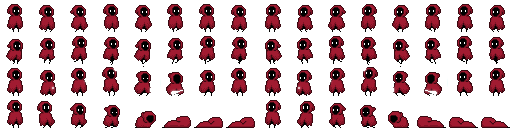
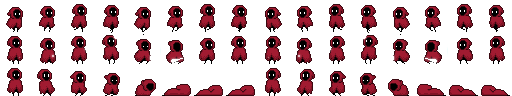
Added enemy movement.

diff --git a/main.c b/main.c
@@ -76,12 +76,35 @@ int showMenu(SDL_Window *window)
     }
 }
 
+void moveEnemy(Map *map, Entity *enemy, Entity *player)
+{
+    if (enemy->x < player->x && checkMove(map, enemy->x + 1, enemy->y))
+    {
+        enemy->x++;
+        enemy->facing = RIGHT;
+    }
+    else if (enemy->x > player->x && checkMove(map, enemy->x - 1, enemy->y))
+    {
+        enemy->x--;
+        enemy->facing = LEFT;
+    }
+    else
+    {
+        if (enemy->y < player->y && checkMove(map, enemy->x, enemy->y + 1))
+            enemy->y++;
+        else if (enemy->y > player->y && checkMove(map, enemy->x, enemy->y - 1))
+            enemy->y--;
+    }
+}
+
 int main(int argc, char **argv)
 {
     // Map and Tileset loading.
     Map *map = loadMap("maps/main.txt");
     Entity *player = createEntity(10, 7, 100, "assets/char.png");
-    char map_name[50] = "main";
+
+    Entity *enemy = createEntity(20, 7, 100, "assets/enemy.png");
+    enemy->facing = RIGHT;
 
     // Window creation and everything SDL related.
     SDL_Window *window = NULL;
@@ -92,6 +115,7 @@ int main(int argc, char **argv)
     //     goto Quit;
 
     // Main loop.
+    char map_name[50] = "main";
     SDL_Event event;
     for (int i = 0;;)
     {
@@ -140,6 +164,7 @@ int main(int argc, char **argv)
                 continue;
                 break;
             }
+            moveEnemy(map, enemy, player);
             break;
 
         case SDL_MOUSEMOTION:
@@ -157,6 +182,7 @@ int main(int argc, char **argv)
         // Render the map and the character.
         renderMap(window, map);
         renderCharacter(window, player, map->tile_width, i, "normal");
+        renderCharacter(window, enemy, map->tile_width, i, "normal");
         SDL_UpdateWindowSurface(window);
         SDL_Delay(16);
 

diff --git a/player.c b/player.c
@@ -23,7 +23,7 @@ void renderCharacter(SDL_Window *window, Entity *character, int size, int shift,
     SDL_Rect src, dest;
     src.w = size;
     src.h = size;
-    src.y = size * 1;
+    src.y = 0;
     src.x = size * (character->facing + shift);
 
     if (strcmp(mode, "attack") == 0)
